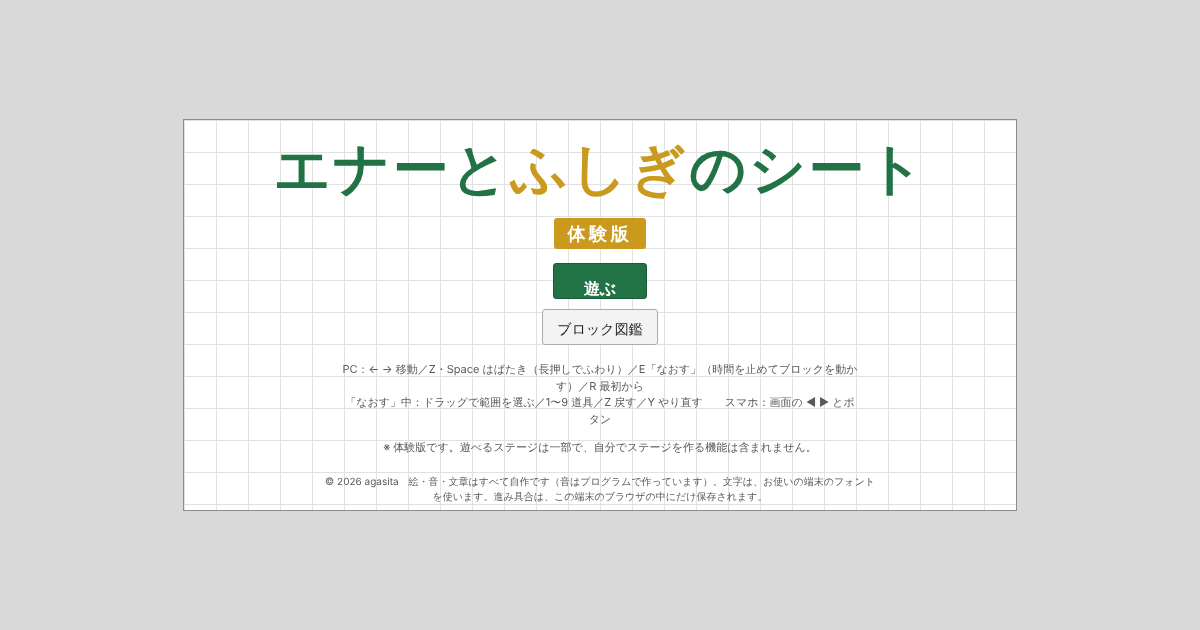
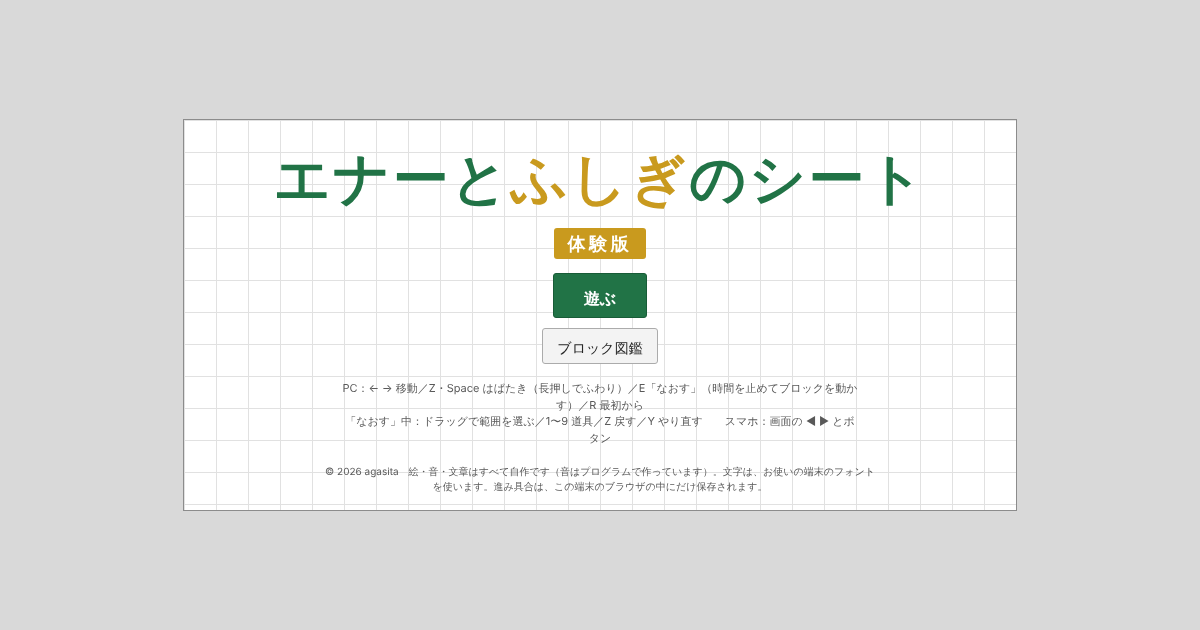
体験版: 注意書きを削除し、公開用リポジトリ向けの書き出しスクリプトを追加 (#89)
* v2: move pad left / flap right in landscape, integer-scale window for readability

Claude-Session: https://claude.ai/code/session_01SBD4kMUetKn4vxQJh379os

* v2: draw UI text with a system font at native resolution for legibility

Claude-Session: https://claude.ai/code/session_01SBD4kMUetKn4vxQJh379os

* v2: back to HTML/CSS UI, move pad left and smaller flap on the right, hiragana wording

Claude-Session: https://claude.ai/code/session_01SBD4kMUetKn4vxQJh379os

* v2: rebuild stage editor for the current game (glass, lifts with size and route, hints, theme, undo)

Claude-Session: https://claude.ai/code/session_01SBD4kMUetKn4vxQJh379os

* v2: stage 1-2 third sigma now needs a clever wide sort (stairs from scattered blocks)

Claude-Session: https://claude.ai/code/session_01SBD4kMUetKn4vxQJh379os

* v2: stage 1-2 fits one screen, default sort direction down, drop walker that jams stacks

Claude-Session: https://claude.ai/code/session_01SBD4kMUetKn4vxQJh379os

* v2: magnet block, switch and door, stage 8-1, tool drawer in edit mode, editor support

Claude-Session: https://claude.ai/code/session_01SBD4kMUetKn4vxQJh379os

* stage editor: tool palette as a slide-in drawer, collapsible settings

Claude-Session: https://claude.ai/code/session_01SBD4kMUetKn4vxQJh379os

* v2: revert in-game tool drawer; editor cache-busting

Claude-Session: https://claude.ai/code/session_01SBD4kMUetKn4vxQJh379os

* v2: stage 8-1 door near start so the closed door can be seen first
[…]

Changed region(s): [[0.2158, 0.2111, 0.7708, 0.8143]]

diff --git a/demo/index.html b/demo/index.html
@@ -9,10 +9,10 @@
 <title>エナーとふしぎのシート 体験版</title>
 <meta property="og:type" content="website">
 <meta property="og:title" content="エナーとふしぎのシート 体験版">
-<meta property="og:description" content="時間を止めて、ブロックを動かして進むパズルアクション。体験版（8ステージ）を遊べます。">
+<meta property="og:description" content="時間を止めて、ブロックを動かして進むパズルアクション。体験版（8 ステージ）を遊べます。">
 <meta property="og:image" content="https://agasita.github.io/geko-enar-playtest/demo/ogp.png">
 <meta name="twitter:card" content="summary_large_image">
-<meta name="description" content="時間を止めて、ブロックを動かして進むパズルアクション。体験版（8ステージ）。">
+<meta name="description" content="時間を止めて、ブロックを動かして進むパズルアクション。体験版（8 ステージ）。">
 <script>document.write('<link rel="stylesheet" href="style.css?t='+Date.now()+'">')</script>
 <noscript><link rel="stylesheet" href="style.css"></noscript>
 </head>
@@ -87,7 +87,6 @@
       <button id="btn-play" class="big">遊ぶ</button>
       <button id="btn-guide" class="ghost">ブロック図鑑</button>
       <p class="keys">PC：← → 移動／Z・Space はばたき（長押しでふわり）／E「なおす」（時間を止めてブロックを動かす）／R 最初から<br>「なおす」中：ドラッグで範囲を選ぶ／1〜9 道具／Z 戻す／Y やり直す　　スマホ：画面の ◀ ▶ とボタン</p>
-      <p class="demo-note">※ 体験版です。遊べるステージは一部で、自分でステージを作る機能は含まれません。</p>
       <p class="credit">© 2026 agasita　絵・音・文章はすべて自作です（音はプログラムで作っています）。文字は、お使いの端末のフォントを使います。進み具合は、この端末のブラウザの中にだけ保存されます。</p>
     </section>
 

diff --git a/scripts/export_levels.js b/scripts/export_levels.js
@@ -1,0 +1,9 @@
+// 使いかた: node scripts/export_levels.js <levels.js> <ステージID,ステージID,...> > 出力.js
+// 体験版の 公開用に、えらんだ ステージだけの levels.js を つくる。想定の 解きかた(solution)は けす。
+const fs = require('fs'), vm = require('vm');
+const [src, ids] = process.argv.slice(2);
+const sandbox = { window: {} }; vm.createContext(sandbox);
+vm.runInContext(fs.readFileSync(src, 'utf8'), sandbox);
+const keep = ids.split(',');
+const out = keep.map(id => { const l = sandbox.window.LEVELS.find(q => q.id === id); if (!l) throw new Error('no level ' + id); const c = JSON.parse(JSON.stringify(l)); c.solution = []; return c; });
+process.stdout.write('/* エナーとふしぎのシート 体験版: ステージデータ */\nwindow.LEVELS = ' + JSON.stringify(out) + ';\n');

diff --git a/scripts/make_demo.py b/scripts/make_demo.py
@@ -1,36 +1,41 @@
 #!/usr/bin/env python3
-"""体験版(demo/index.html)を、v2/index.html から つくる。
- - ゲームの ほんたい(v2/*.js, style.css)は そのまま つかう(<base href="../v2/">)
- - ステージ作成・ほかのバージョンへの リンクを けす／ステージを 一部に しぼる／タイトルに「体験版」
-v2/index.html を かえたら、もういちど これを 実行する:  python3 scripts/make_demo.py
+"""体験版を、v2/index.html から つくる。
+  python3 scripts/make_demo.py            -> demo/index.html（この リポジトリの 中で つかう版。ゲームの ほんたいは v2 を つかう）
+  python3 scripts/build_demo_release.py   -> 体験版だけの 「公開用 フォルダ／zip」（べつの 公開リポジトリ 用）
+v2/index.html を かえたら、もういちど これを 実行する。
 """
 import os, re
 
 ROOT = os.path.dirname(os.path.dirname(os.path.abspath(__file__)))
 STAGES = ['1-1', '1-2', '1-3', '2-1', '3-1', '4-1', '5-1', '5-2']   # 体験版で 遊べる ステージ(この じゅん)
+AUTHOR = 'agasita'                                                   # 権利表記の 名前
+
+
+def build_html(standalone=False, base_url='https://agasita.github.io/geko-enar-playtest/demo/', author=AUTHOR):
+    t = open(os.path.join(ROOT, 'v2', 'index.html'), encoding='utf-8').read()
+    # 1) ほんたいの ファイルの よみこみ先: リポジトリ内版=v2 / 公開用=おなじ フォルダ
+    if not standalone:
+        t = t.replace('<head>', '<head>\n<base href="../v2/">', 1)
+    # 2) 体験版の せってい(game.js より さきに よむ)
+    t = t.replace("<script>\n// まいかい", "<script>window.DEMO = { levels: %s };</script>\n<script>\n// まいかい" % repr(STAGES).replace("'", '"'), 1)
+    # 3) タイトル・SNSカード
+    t = re.sub(r'<title>.*?</title>', '<title>エナーとふしぎのシート 体験版</title>', t, count=1)
+    ogp = ('<meta property="og:type" content="website">\n<meta property="og:title" content="エナーとふしぎのシート 体験版">\n'
+           '<meta property="og:description" content="時間を止めて、ブロックを動かして進むパズルアクション。体験版（%d ステージ）を遊べます。">\n'
+           '<meta property="og:image" content="%sogp.png">\n<meta name="twitter:card" content="summary_large_image">\n'
+           '<meta name="description" content="時間を止めて、ブロックを動かして進むパズルアクション。体験版（%d ステージ）。">') % (len(STAGES), base_url, len(STAGES))
+    t = t.replace('<title>エナーとふしぎのシート 体験版</title>', '<title>エナーとふしぎのシート 体験版</title>\n' + ogp, 1)
+    t = t.replace('<h1>エナーと<span>ふしぎ</span>のシート</h1>', '<h1>エナーと<span>ふしぎ</span>のシート</h1>\n      <div class="demo-badge">体験版</div>', 1)
+    # 4) あそびかた(「編集中」は ステージ作成と まぎらわしい ので「なおす中」)・権利表記。ステージ作成や ほかの 版への リンクは けす
+    t = re.sub(r'<p class="keys">.*?</p>', '<p class="keys">PC：← → 移動／Z・Space はばたき（長押しでふわり）／E「なおす」（時間を止めてブロックを動かす）／R 最初から<br>「なおす」中：ドラッグで範囲を選ぶ／1〜9 道具／Z 戻す／Y やり直す　　スマホ：画面の ◀ ▶ とボタン</p>', t, count=1, flags=re.S)
+    t = re.sub(r'\s*<p class="themes">.*?(?=\n\s*</section>)', '\n      <p class="credit">© 2026 %s　絵・音・文章はすべて自作です（音はプログラムで作っています）。文字は、お使いの端末のフォントを使います。進み具合は、この端末のブラウザの中にだけ保存されます。</p>' % author, t, count=1, flags=re.S)
+    t = t.replace('<button id="btn-editor" class="ghost tiny">ステージを作る</button> ', '', 1)
+    t = t.replace('<h2>ステージ選択</h2>', '<h2>ステージ選択（体験版）</h2>', 1)
+    return t
 
 
 def main():
-    t = open(os.path.join(ROOT, 'v2', 'index.html'), encoding='utf-8').read()
-    # 1) 同じ フォルダの ファイルを v2 から よむ
-    t = t.replace('<head>', '<head>\n<base href="../v2/">', 1)
-    # 2) 体験版の せってい(game.js より さきに よむ)
-    t = t.replace("<script>\n// まいかい", "<script>window.DEMO = { levels: %s };</script>\n<script>\n// まいかい" % repr(STAGES).replace("'", '"'), 1)
-    # 3) タイトル
-    t = re.sub(r'<title>.*?</title>', '<title>エナーとふしぎのシート 体験版</title>', t, count=1)
-    t = t.replace('<h1>エナーと<span>ふしぎ</span>のシート</h1>', '<h1>エナーと<span>ふしぎ</span>のシート</h1>\n      <div class="demo-badge">体験版</div>', 1)
-    # 4) ステージ作成・テーマ・むかしのバージョンの リンクを けす
-    # 3b) あそびかたの せつめいを わかりやすく(「編集中」は ステージ作成と まぎらわしい ので「なおす中」)
-    t = re.sub(r'<p class="keys">.*?</p>', '<p class="keys">PC：← → 移動／Z・Space はばたき（長押しでふわり）／E「なおす」（時間を止めてブロックを動かす）／R 最初から<br>「なおす」中：ドラッグで範囲を選ぶ／1〜9 道具／Z 戻す／Y やり直す　　スマホ：画面の ◀ ▶ とボタン</p>', t, count=1, flags=re.S)
-    # 3c) SNSで ひらいた ときの カード(OGP)
-    ogp = ('<meta property="og:type" content="website">\n<meta property="og:title" content="エナーとふしぎのシート 体験版">\n'
-           '<meta property="og:description" content="時間を止めて、ブロックを動かして進むパズルアクション。体験版（8ステージ）を遊べます。">\n'
-           '<meta property="og:image" content="https://agasita.github.io/geko-enar-playtest/demo/ogp.png">\n<meta name="twitter:card" content="summary_large_image">\n'
-           '<meta name="description" content="時間を止めて、ブロックを動かして進むパズルアクション。体験版（8ステージ）。">')
-    t = t.replace('<title>エナーとふしぎのシート 体験版</title>', '<title>エナーとふしぎのシート 体験版</title>\n' + ogp, 1)
-    t = re.sub(r'\s*<p class="themes">.*?(?=\n\s*</section>)', '\n      <p class="demo-note">※ 体験版です。遊べるステージは一部で、自分でステージを作る機能は含まれません。</p>\n      <p class="credit">© 2026 agasita　絵・音・文章はすべて自作です（音はプログラムで作っています）。文字は、お使いの端末のフォントを使います。進み具合は、この端末のブラウザの中にだけ保存されます。</p>', t, count=1, flags=re.S)
-    t = t.replace('<button id="btn-editor" class="ghost tiny">ステージを作る</button> ', '', 1)
-    t = t.replace('<h2>ステージ選択</h2>', '<h2>ステージ選択（体験版）</h2>', 1)
+    t = build_html()
     os.makedirs(os.path.join(ROOT, 'demo'), exist_ok=True)
     open(os.path.join(ROOT, 'demo', 'index.html'), 'w', encoding='utf-8').write(t)
     print('demo/index.html を つくりました（ステージ %d こ）' % len(STAGES))

diff --git a/scripts/build_demo_release.py b/scripts/build_demo_release.py
@@ -1,0 +1,46 @@
+#!/usr/bin/env python3
+"""体験版の「公開用フォルダ」を つくる（べつの 公開リポジトリに そのまま のせる ため）。
+  python3 scripts/build_demo_release.py [--url https://ユーザー名.github.io/リポジトリ名/] [--author 名前]
+できるもの: dist/demo-release/（と dist/enar-sheet-demo.zip）
+  - 体験版に ひつような ファイルだけ（ステージ作成・ほかの ステージ・設計メモ・古い版・想定の 解きかた は ふくまない）
+  - index.html は ふつうの 1フォルダ構成（<base>なし）。そのまま GitHub Pages で ひらける。
+"""
+import os, sys, shutil, subprocess, zipfile, argparse
+
+ROOT = os.path.dirname(os.path.dirname(os.path.abspath(__file__)))
+sys.path.insert(0, os.path.join(ROOT, 'scripts'))
+import make_demo  # noqa: E402
+
+
+def main():
+    ap = argparse.ArgumentParser()
+    ap.add_argument('--url', default='https://agasita.github.io/enar-sheet-demo/')
+    ap.add_argument('--author', default=make_demo.AUTHOR)
+    a = ap.parse_args()
+    url = a.url if a.url.endswith('/') else a.url + '/'
+    out = os.path.join(ROOT, 'dist', 'demo-release')
+    shutil.rmtree(out, ignore_errors=True); os.makedirs(out)
+    # 1) ほんたいの ファイル(げんてい の ステージは levels.js を つくりなおす)
+    for f in ['sprites.js', 'gfx_snes.js', 'gfx_excel.js', 'music_data.js', 'music.js', 'game.js', 'style.css']:
+        shutil.copy(os.path.join(ROOT, 'v2', f), os.path.join(out, f))
+    lv = subprocess.run(['node', os.path.join(ROOT, 'scripts', 'export_levels.js'), os.path.join(ROOT, 'v2', 'levels.js'), ','.join(make_demo.STAGES)], capture_output=True, text=True, check=True).stdout
+    open(os.path.join(out, 'levels.js'), 'w', encoding='utf-8').write(lv)
+    # 2) ページ・SNS画像
+    open(os.path.join(out, 'index.html'), 'w', encoding='utf-8').write(make_demo.build_html(standalone=True, base_url=url, author=a.author))
+    shutil.copy(os.path.join(ROOT, 'demo', 'ogp.png'), os.path.join(out, 'ogp.png'))
+    open(os.path.join(out, '.nojekyll'), 'w').write('')
+    open(os.path.join(out, 'README.md'), 'w', encoding='utf-8').write(
+        '# エナーとふしぎのシート 体験版\n\n時間を止めて、ブロックを動かして進むパズルアクションの体験版です。\n\n- 遊ぶ: %s\n\n'
+        '© 2026 %s　絵・音・文章はすべて自作です。無断転載・転用はご遠慮ください。\n' % (url, a.author))
+    # 3) zip
+    zp = os.path.join(ROOT, 'dist', 'enar-sheet-demo.zip')
+    if os.path.exists(zp): os.remove(zp)
+    with zipfile.ZipFile(zp, 'w', zipfile.ZIP_DEFLATED) as z:
+        for dp, _, fs in os.walk(out):
+            for f in fs:
+                p = os.path.join(dp, f); z.write(p, os.path.relpath(p, out))
+    print('つくりました:', out); print('zip:', zp); print('ファイル:', sorted(os.listdir(out)))
+
+
+if __name__ == '__main__':
+    main()

diff --git a/docs/V2_DESIGN.md b/docs/V2_DESIGN.md
@@ -539,3 +539,9 @@
 - **ブロック図鑑**: 体験版では、ステージに ない 磁石・判定セル・リフトの 説明を 出さない。中身の ない 見出しは 出さない。
 - **SNSの カード(OGP)**: タイトル・説明・画像（`demo/ogp.png` 1200×630）の メタタグを 追加。
 - 年齢区分・点滅の 注意: 強い 連続の 点滅は ない（ガラスの 小さな 光の みの 演出）。必要なら 一言 足せる。
+
+## 2026-11-21 体験版の「公開用リポジトリ」づくり
+- 体験版の注意書き（ステージ作成などの案内）を けした。
+- `scripts/build_demo_release.py` … 体験版に ひつような ファイルだけを `dist/demo-release/`（と zip）に まとめる。想定の解きかた（solution）は ふくまない。BGM（music.js / music_data.js）も ふくむ。
+- `scripts/export_levels.js` … えらんだ ステージだけの levels.js を つくる。
+- `dist/` は .gitignore。
